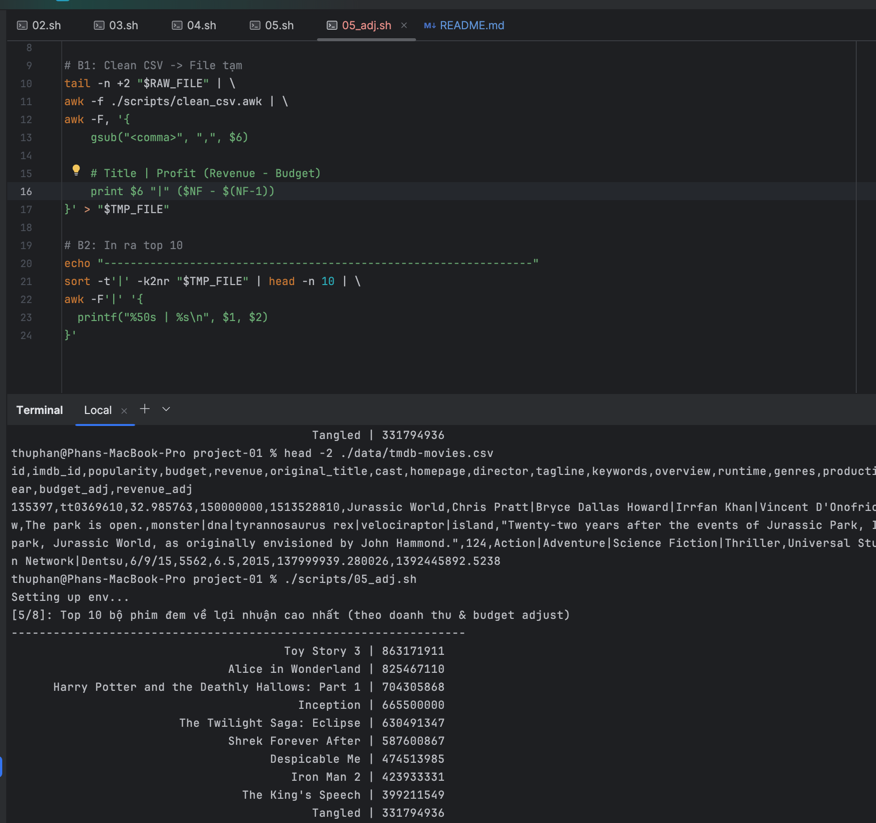
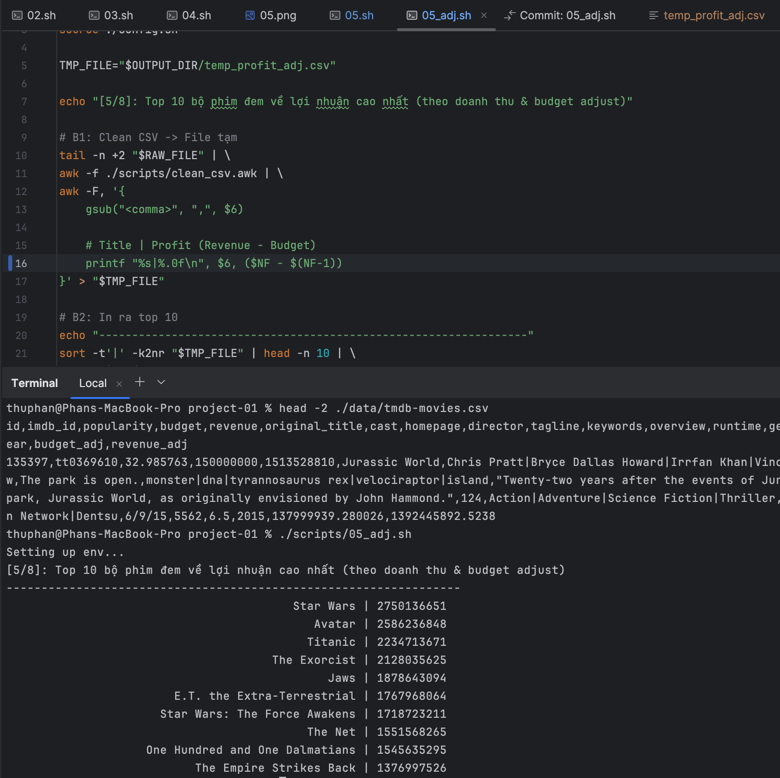
[pj1] fix: correct profit calculation logic in 05, 08

diff --git a/project-01/README.md b/project-01/README.md
@@ -57,20 +57,20 @@ id,imdb_id,popularity,budget,revenue,original_title,cast,homepage,director,tagli
 ```
 
 Tính theo doanh thu / lợi nhuận "adjusted"
-![img_1.png](docs/images/05_adj.png)
+![img.png](docs/images/05_adj.png)
 ```csv
 [5/8]: Top 10 bộ phim đem về lợi nhuận cao nhất (theo doanh thu & budget adjust)
 -----------------------------------------------------------------
-                                       Toy Story 3 | 863171911
-                               Alice in Wonderland | 825467110
-      Harry Potter and the Deathly Hallows: Part 1 | 704305868
-                                         Inception | 665500000
-                        The Twilight Saga: Eclipse | 630491347
-                               Shrek Forever After | 587600867
-                                     Despicable Me | 474513985
-                                        Iron Man 2 | 423933331
-                                 The King's Speech | 399211549
-                                           Tangled | 331794936
+                                         Star Wars | 2750136651
+                                            Avatar | 2586236848
+                                           Titanic | 2234713671
+                                      The Exorcist | 2128035625
+                                              Jaws | 1878643094
+                        E.T. the Extra-Terrestrial | 1767968064
+                      Star Wars: The Force Awakens | 1718723211
+                                           The Net | 1551568265
+                    One Hundred and One Dalmatians | 1545635295
+                           The Empire Strikes Back | 1376997526
 ```
 
 ### 6. Đạo diễn nào có nhiều bộ phim nhất và diễn viên nào đóng nhiều phim nhất
